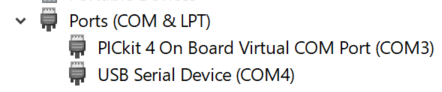
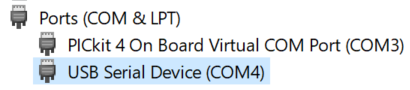
Update IoT Central guidance

diff --git a/WFI32_IoT_Central.md b/WFI32_IoT_Central.md
@@ -42,7 +42,7 @@ As a solution builder, you can use IoT Central to develop a cloud-hosted IoT sol
 
 6. Right-click the `WFI32-IoT_Azure` project and select `Make and Program Device`.  This operation will automatically clean and build the project before attempting to program the target device. After the `BUILD SUCCESSFUL` message appears in the Output window, the application HEX file will be programmed onto the WFI32-IoT Board. Once programming has finished, the board will automatically reset and start running its application code
 
-7. Set up a Command Line Interface (CLI) to the board. Open a serial terminal (e.g. PuTTY, TeraTerm, etc.) and connect to the COM port corresponding to your board at `115200 baud` (e.g. open PuTTY Configuration window &gt; choose `session` &gt; choose `Serial`&gt; Enter the right COMx port). You can find the right COM number by opening your PC’s `Device Manager` &gt; expand `Ports(COM & LPT)` &gt; take note of `PICkit4 On Board Virtual COM Port (COMx)`)
+7. Set up a Command Line Interface (CLI) to the board. Open a serial terminal (e.g. PuTTY, TeraTerm, etc.) and connect to the COM port corresponding to your board at `115200 baud` (e.g. open PuTTY Configuration window &gt; choose `session` &gt; choose `Serial`&gt; enter/select the right COMx port). You can find the right COM port number by opening your PC’s `Device Manager` &gt; expand `Ports(COM & LPT)` &gt; take note of `USB Serial Device (COMx)`
 
     <img src=".//media/image43.png"/>
 
